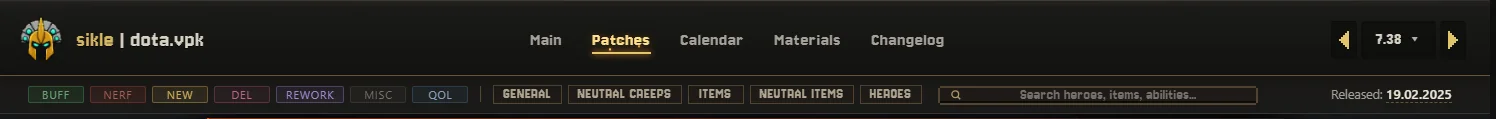
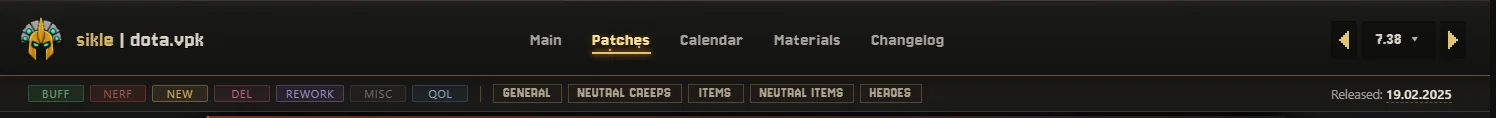
feat(telegraph): weekly post v4 - biggest changes first, more detail, fresh image folder

diff --git a/tools/telegraph_post/build_post.py b/tools/telegraph_post/build_post.py
@@ -17,90 +17,121 @@ from PIL import Image
 from playwright.sync_api import sync_playwright
 
 ROOT = pathlib.Path(__file__).resolve().parents[2]
-WEEK = "2026-09-20_25"
+WEEK = "2026-09-20_25b"   # "b": fresh image URLs (Instant View caches failed fetches by URL)
 SITE = "https://sikleq.github.io/Sloppy/"
 IMG_DIR = ROOT / "icons" / "telegraph" / WEEK
 IMG_URL = f"{SITE}icons/telegraph/{WEEK}/"
 OUT = pathlib.Path(__file__).resolve().parent / "out"
 SHOTS = ROOT / "icons" / "changelog"
-TITLE = "Sloppy: что нового за неделю (20–25 сентября)"
+TITLE = "Sloppy: итоги недели 20–25 сентября"
 
 # ---- the post: (kind, payload). "img" = (changelog shot file, caption)
 POST = [
     ("cover", "Неделя обновлений · 20–25 сентября"),
-    ("p", 'Sloppy — сайт о патчах Dota 2: каждое изменение размечено тегами, а в таблицах '
-          'Materials собраны герои, предметы и крипы с историей по патчам. За неделю сайт '
-          'сменил облик, получил новые страницы, полностью размеченный патч 7.38, заметно '
-          'ускорился и избавился от пачки ошибок в данных.'),
+    ("p", 'Sloppy — сайт о патчах Dota 2. Каждое изменение в патчноутах размечено тегом (BUFF, NERF, '
+          'NEW, DEL, REWORK…), а в разделе Materials собраны таблицы героев, предметов и крипов с '
+          'историей каждого числа по патчам. За эту неделю сайт получил полностью размеченный патч 7.38, '
+          'новый облик, новые страницы и переработанную систему весов, стал заметно быстрее и избавился '
+          'от десятка ошибок в данных. Ниже — всё по порядку, от самого крупного к мелочам.'),
     ("links", [("Открыть сайт", SITE), ("Changelog сайта", SITE + "changelog.html")]),
     ("toc", None),
 
-    ("h3", "Новый облик"),
+    ("h3", "Патч 7.38 целиком"),
+    ("p", "Самая большая работа недели: все 1585 изменений патча 7.38 размечены и построчно сверены с "
+          "данными Valve. Каждая строка получила тег, у чисел — процент изменения, у способностей — иконки."),
+    ("ul", ["<b>Переработки читаются целиком.</b> Если механика переделана (Мучитель, Вампиризм, "
+            "святилища мудрости вместо рун), вместо россыпи строк — одно описание того, как она работает теперь.",
+            "<b>Карточки «было / стало».</b> У изменённых способностей старая и новая подсказка стоят рядом, "
+            "причём старая — настоящая, из файлов игры тех лет, а не пересказ.",
+            "<b>Таблицы по времени.</b> Значения, растущие с минутами игры (золото с рун богатства, щит "
+            "Мучителя), раскрываются таблицей по минутам.",
+            "<b>Новые предметы — карточкой.</b> Цена, рецепт и свойства нового предмета собраны в одну карточку."]),
+    ("img", ("2026-09-20_patch738.webp", "Страница патча 7.38")),
+    ("img", ("2026-09-24_tormentor_card.webp", "Мучитель: «было / стало» с таблицей значений")),
+    ("img", ("2026-09-24_lifesteal.webp", "Вампиризм: одно описание новой механики")),
+    ("img", ("2026-09-24_bounty.webp", "Золото с рун богатства по минутам")),
+
+    ("h3", "Новый облик сайта"),
+    ("p", "Сайт отошёл от холодного «металлического» вида и вернулся к тёплому пиксельному стилю, "
+          "в котором нарисованы его иконки."),
     ("h4", "Шапка «Угольки»"),
-    ("p", "Кнопки в шапке теперь просто текст. Текущая страница горит золотом, а из тонкой "
-          "полоски под ней поднимаются искры — как у автокаста в игре. Раздел Materials "
-          "подсвечен снизу тёплым отсветом, будто от углей."),
-    ("img", ("2026-09-24_header.webp", "Шапка и панель фильтров страницы патча")),
-    ("h4", "Пиксельные кнопки и меню"),
-    ("p", "Меню, панели фильтров, переключатели и поля ввода перешли на один стиль: пиксельный "
-          "шрифт, ступенчатые углы, «игровые» кнопки с тёмной кромкой. Нажатая кнопка с текстом "
-          "заливается золотом, а кнопка-иконка — светится изнутри, чтобы иконку было видно."),
+    ("p", "Кнопки в шапке теперь просто текст. Текущая страница горит золотом, а из тонкой полоски под "
+          "ней поднимаются искры — как у автокаста в игре. Раздел Materials подсвечен снизу тёплым отсветом."),
+    ("img", ("2026-09-24_header.webp", "Шапка и строка тегов страницы патча")),
+    ("h4", "Пиксельные кнопки, меню и поля"),
+    ("p", "Все выпадающие меню, панели фильтров, переключатели, галочки и поля ввода получили один стиль: "
+          "пиксельный шрифт, ступенчатые углы, «игровые» кнопки с тёмной кромкой. Нажатая кнопка с текстом "
+          "заливается золотом, а кнопка-иконка (весы, таланты, атрибуты) светится изнутри, чтобы иконку было видно."),
     ("img", ("2026-09-25_controls.webp", "Панель фильтров Hero Stats")),
     ("img", ("2026-09-25_menu.webp", "Выпадающее меню с пиксельными галочками")),
-    ("img", ("2026-09-25_terrain_bar.webp", "Кнопки Terrain в том же стиле")),
     ("h4", "Тёплые цвета"),
-    ("p", "Холодные стальные серые и синие ушли, их место заняли спокойные тёплые тона — "
-          "фон, линии, шапки таблиц, календарь и его графики. Синий остался только там, где "
-          "он что-то значит: QOL, магический урон, интеллект, Aghanim, мана."),
+    ("p", "Стальные серые и синие оттенки заменены тёплыми той же яркости — фон, линии, шапки таблиц, "
+          "календарь и его графики. Синий остался только там, где он что-то значит: QOL, магический урон, "
+          "интеллект, Aghanim, мана."),
     ("img", ("2026-09-25_warm.webp", "Neutral Stats в новых цветах")),
     ("img", ("2026-09-25_warm_calendar.webp", "Календарь патчей")),
-    ("h4", "Теги горят, как неон"),
-    ("p", "Теги и группы на страницах патчей стоят в одну строку, без подписей «Tags» и "
-          "«Group», их разделяет тонкая линия. Нажатый тег светится своим цветом — и буквы, и "
-          "рамка. NEW и REWORK стали ярче, а DEL — винно-красным, чтобы не путать его с NERF."),
-    ("img", ("2026-09-25_tags.webp", "NERF и Items нажаты")),
-    ("h4", "Новые иконки"),
-    ("p", "У каждой плитки главной страницы своя пиксельная иконка. Заново нарисованы "
-          "ближний и дальний бой, таланты (светлое кольцо с веточкой, как в игре) и жук, "
-          "которым в Changelog помечены исправления. А способности с автокастом в таблицах "
+    ("h4", "Теги-неон и поиск-лупа"),
+    ("p", "Теги и группы на страницах патчей стоят в одну строку без подписей. Нажатый тег светится своим "
+          "цветом, как неоновая вывеска. NEW и REWORK стали ярче, DEL — винно-красным, чтобы не путать с NERF. "
+          "Поиск переехал в круглую кнопку-лупу в углу, над весами: по клику или клавише «/» выезжает поле, "
+          "результаты открываются вверх."),
+    ("img", ("2026-09-25_tags.webp", "Нажаты NERF и Items")),
+    ("img", ("2026-09-25_search_fab.webp", "Поиск по кнопке-лупе")),
+    ("h4", "Главная и автокаст"),
+    ("p", "У каждой плитки главной страницы своя пиксельная иконка. Способности с автокастом в таблицах "
           "нейтралов показывают эффект из самой игры — огонь бежит по краю иконки."),
     ("img", ("2026-09-24_index.webp", "Главная страница")),
-    ("img", ("2026-09-25_aoe_talent.webp", "AoE Increase: включённый талант и предметы")),
     ("img", ("2026-09-24_autocast.webp", "Автокаст, как в игре")),
 
-    ("h3", "Патч 7.38 целиком"),
-    ("p", "Все 1585 изменений патча 7.38 размечены и сверены построчно с данными Valve. "
-          "Переработанные механики читаются одним описанием того, как они работают теперь. "
-          "У изменённых способностей — карточки «было / стало» с настоящими старыми подсказками "
-          "из игры, а значения, растущие со временем, раскрываются таблицей по минутам."),
-    ("img", ("2026-09-20_patch738.webp", "Страница патча 7.38")),
-    ("img", ("2026-09-24_tormentor_card.webp", "Мучитель: карточка «было / стало» с таблицей")),
-    ("img", ("2026-09-24_lifesteal.webp", "Вампиризм: одно описание новой механики")),
-    ("img", ("2026-09-24_bounty.webp", "Золото с рун богатства — таблица по минутам")),
-
     ("h3", "Новые страницы"),
-    ("p", "<b>Unit Changes и Structures</b> — история изменений каждого нейтрала, призыва и "
-          "линейного крипа, а ещё башен, казарм и Мучителя."),
+    ("p", "<b>Unit Changes и Structures.</b> История изменений каждого нейтрала, призыва и линейного "
+          "крипа, а ещё башен, казарм и Мучителя — в том же виде, что у героев."),
     ("img", ("2026-09-22_unit_changes.webp", "Unit Changes")),
-    ("p", "<b>Рошан и Мучитель</b> получили свои страницы с полной историей — как у героев."),
+    ("p", "<b>Рошан и Мучитель</b> получили свои страницы с полной историей."),
     ("img", ("2026-09-23_roshan.webp", "Страница Рошана")),
-    ("p", "<b>Changelog</b> — всё новое на сайте по датам, со скриншотами в карусели. Мелкие "
-          "правки собраны списком под днём, исправления помечены пиксельным жуком, а слева — "
-          "оглавление только из крупных новинок."),
+    ("p", "<b>Страница у каждого предмета.</b> Раньше 133 предмета, которые ещё ни разу не менялись "
+          "(Circlet, Crown, Claymore…), были серыми и некликабельными. Теперь у каждого есть страница, "
+          "а в слоты предметов на странице героя можно поставить любой предмет."),
+    ("img", ("2026-09-25_item_page.webp", "Страница предмета без изменений")),
+    ("p", "<b>Changelog сайта</b> — всё новое по датам, со скриншотами в карусели. Мелкие правки собраны "
+          "списком под днём, исправления помечены пиксельным жуком."),
     ("img", ("2026-09-24_changelog.webp", "Changelog сайта")),
     ("img", ("2026-09-25_clog_fix.webp", "Мелкие правки дня; жук — исправление")),
 
+    ("h3", "Веса: аудит и 9 исправлений"),
+    ("p", "Режим весов оценивает, насколько сильно патч изменил героя или предмет: у каждой строки "
+          "патчноута есть балл, баллы складываются в клетку Dynamics. Модель прошла глубокую проверку "
+          "на всех строках 20 патчей, найдено и исправлено 9 ошибок:"),
+    ("ul", ["строки юнитов, зачарований и Spirit Bear брали множитель способности предыдущего героя;",
+            "переработанные способности, новые фасеты и панели свойств предметов не давали балла вовсе;",
+            "«рецепт дешевле, общая цена та же» считался изменением — теперь ноль;",
+            "активные эффекты предметов оценивались как их собственные характеристики;",
+            "цена «+1%» была завышена вдвое для урона заклинаний и скорости от способностей;",
+            "линия в Dynamics прыгала из скрытых колонок при «Hide old».",
+            "Согласие баллов с независимыми судьями выросло с 0.35 до 0.40 и с 0.43 до 0.46."]),
+    ("img", ("2026-09-25_weights_on.webp", "Hero Dynamics в режиме весов")),
+
+    ("h3", "Точность данных"),
+    ("ul", ["<b>Базовая скорость атаки 7.41f.</b> Данные героев застряли на 7.41e: у Earth Spirit, "
+            "Keeper of the Light и Warlock стояли старые значения. Теперь данные новых патчей берутся прямо "
+            "из файлов игры, и это проверяет тест.",
+            "<b>Врождённые способности.</b> Hero Stats и Hero Lab учитывают всех, кто влияет на "
+            "характеристики: добавлены Rubick (+1 урон за уровень), Tidehunter (+3 здоровья и +2 дальности "
+            "за каждую рыбу), Dark Willow (+20% регенерации), в Hero Lab — Magnus, Primal Beast, Wraith King, "
+            "Death Prophet. Razor даёт +1% скорости за уровень, а не +1 единицу; Horsepower Кентавра не "
+            "складывается с сапогами.",
+            "<b>История Mana Items</b> учитывает, сколько маны давал интеллект в каждом патче "
+            "(11 в 7.36–7.38, а не сегодняшние 12).",
+            "<b>Проверка «новый патч → страницы»:</b> порядок патчей держится сам, AoE Increase снова "
+            "показывает все радиусы, тег Consecrated Wraps в 7.41b исправлен на NERF."]),
+
     ("h3", "Таблицы Materials"),
-    ("ul", ["<b>Mana Items:</b> сколько даёт одно очко интеллекта (+12 маны, +0.05 регена) — "
+    ("ul", ["<b>Per Int на Mana Items:</b> сколько даёт одно очко интеллекта (+12 маны, +0.05 регена) — "
             "прямо в панели фильтров, с историей по патчам.",
-            "<b>Hero Lab:</b> список Difference открывается таблицей 4×7 — без прокрутки.",
-            "<b>Врождённые способности:</b> Hero Stats и Hero Lab учитывают всех, кто влияет на "
-            "характеристики. Добавлены Rubick (+1 урон за уровень), Tidehunter (+3 здоровья и "
-            "+2 дальности за каждую рыбу), Dark Willow (+20% регенерации), в Hero Lab — Magnus, "
-            "Primal Beast, Wraith King, Death Prophet. Razor теперь даёт +1% скорости за уровень, "
-            "а не +1 единицу, а Horsepower Кентавра не складывается с сапогами.",
-            "<b>Heatmap</b> в оливково-кирпичных тонах: лучшее — оливковое, худшее — кирпичное, "
-            "середина без цвета. Зелёный и красный сдвинуты к жёлтому, чтобы жить рядом с золотом сайта.",
+            "<b>Heatmap в оливково-кирпичных тонах:</b> лучшее — оливковое, худшее — кирпичное, середина без "
+            "цвета. Зелёный и красный сдвинуты к жёлтому, чтобы жить рядом с золотом сайта.",
+            "<b>Hero Lab:</b> список Difference открывается таблицей 4×7 без прокрутки; окна выбора героя и "
+            "предмета — в пиксельном стиле.",
             "<b>Terrain:</b> стрелки у номера патча переходят на соседнюю карту (7.41 ↔ 7.40).",
             "Описания над таблицами убраны: страницы открываются сразу с фильтров."]),
     ("img", ("2026-09-25_heatmap.webp", "Heatmap на Mana Items")),
@@ -108,24 +139,12 @@ POST = [
     ("img", ("2026-09-25_hl_diff.webp", "Difference в Hero Lab")),
 
     ("h3", "Быстрее"),
-    ("p", "Hero Dynamics и Item Dynamics — это около 3000 ячеек. Раньше при прокрутке каждая "
-          "ячейка, проезжавшая под курсором, запускала анимацию увеличения, и таблица "
-          "перерисовывалась целиком. Теперь во время прокрутки наведение на паузе, а ячейка "
-          "увеличивается мгновенно: медленных кадров при наведении стало в 7 раз меньше."),
-    ("img", ("2026-09-25_weights_on.webp", "Hero Dynamics в режиме весов")),
-
-    ("h3", "Исправления"),
-    ("ul", ["Базовая скорость атаки в 7.41f застряла на значениях 7.41e — теперь верно: "
-            "Earth Spirit 95, Keeper of the Light 90, Warlock 95. Данные героев для новых патчей "
-            "берутся прямо из файлов игры, и это проверяет тест.",
-            "История Mana Items учитывает, сколько маны давал интеллект в каждом патче "
-            "(11 в 7.36–7.38, а не сегодняшние 12).",
-            "AoE Increase снова показывает все радиусы.",
-            "Врождённые способности 7.41f читаются правильно, и их список больше не расходится "
-            "между страницами.",
-            "Порядок патчей держится сам: новый патч можно дописать в любое место списка."]),
+    ("p", "Hero Dynamics и Item Dynamics — это около 3000 ячеек. Раньше при прокрутке каждая ячейка, "
+          "проезжавшая под курсором, запускала анимацию увеличения, и таблица перерисовывалась целиком. "
+          "Теперь во время прокрутки наведение на паузе, а ячейка увеличивается мгновенно: медленных кадров "
+          "при прокрутке стало втрое, а при наведении — в 7 раз меньше."),
     ("hr", None),
-    ("p", 'Полный список — в <a href="%schangelog.html">Changelog</a>.' % SITE),
+    ("p", 'Полный список изменений — в <a href="%schangelog.html">Changelog</a>.' % SITE),
 ]
 
 

diff --git a/tools/changelog_shots.py b/tools/changelog_shots.py
@@ -52,6 +52,7 @@ SHOTS = {
     "2026-09-25_aoe_talent.webp": ("aoe_increase.html", None, [".toolbar-panel"], ['[data-aoe-upgrade="talent"]'], 120, {"width": 1400}),
     "2026-09-25_innates.webp": ("hero_lab.html", None, [".hero-lab"], [], 420, {"width": 1600}),
     "2026-09-25_heatmap.webp": ("mana_items.html", None, ["table.mr-table"], [], 330, {"width": 1500}),
+    "2026-09-25_item_page.webp": ("items/circlet.html", None, [".ec-head-panel", ".ec-nochange"], [], 300, {"width": 1400}),
     "2026-09-25_menu.webp": ("items_dyn.html", None, [".toolbar-panel", ".hd-dd-menu"], [".hd-dd-btn"], 330, {"width": 1400}),
     "2026-09-25_tags.webp": ("patches/7.38.html", None, [".legend-stack"], ['.legend-tags .filter-btn[data-filter="nerf"]', ".cat-filter-btn >> nth=2"], 60, {"width": 1600}),
     "2026-09-25_terrain_bar.webp": ("terrain_741.html", None, [".tc-controls-bar", ".terrain-subpatch-nav"], [], 90, {"width": 1400}),
